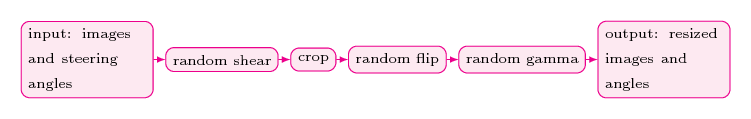
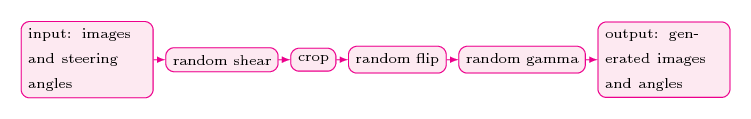
modified: pipeline tex, pipeline and conv_archi png

diff --git a/latex/pipeline.tex b/latex/pipeline.tex
@@ -21,7 +21,7 @@
     
     \node[node](gamma)[right = 0.2cm of flip]{\scriptsize random gamma}; 
     
-    \node[node](resize)[right = 0.2cm of gamma, text width=2cm]{\scriptsize output: resized images and angles};
+    \node[node](resize)[right = 0.2cm of gamma, text width=2cm]{\scriptsize output: generated images and angles};
     
     \path [line] (input) -- (shear);
     \path [line] (shear) -- (crop);
